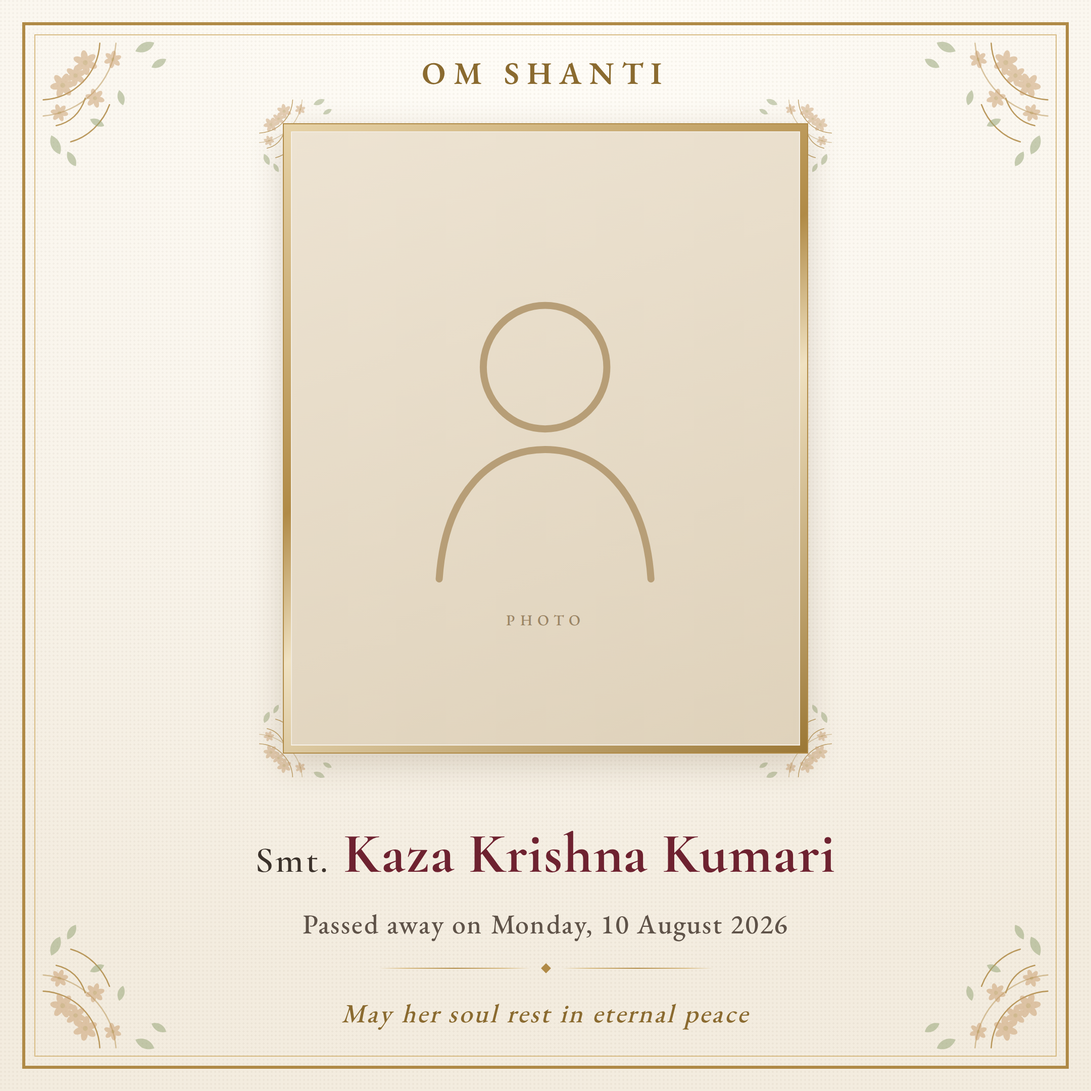
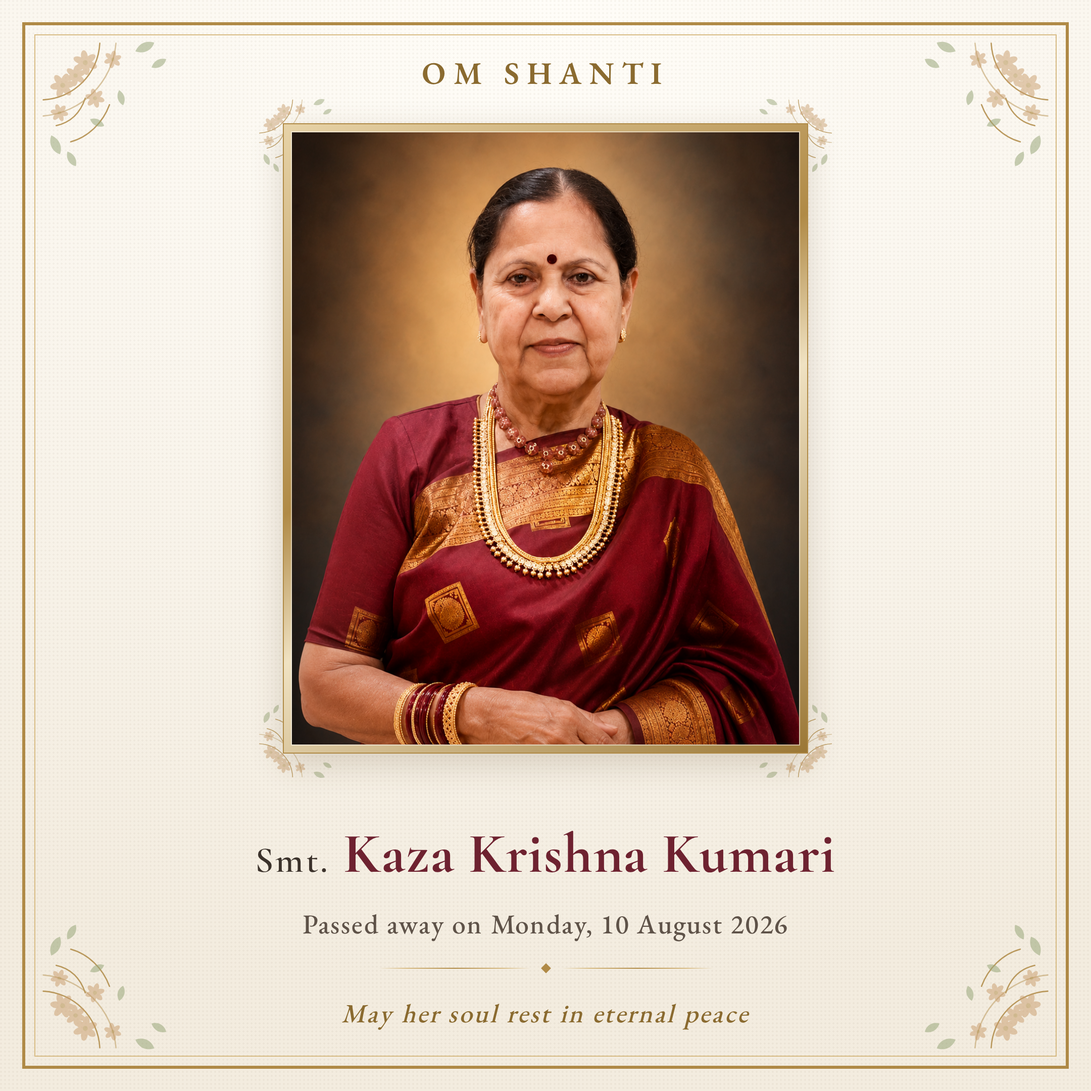
Render all four creatives with the photograph
Copies the portrait into the design folder from where it was uploaded at the
repository root, so the folder re-renders standalone.

The photograph is 1024x1536, exactly the 2:3 of the invitation slot, so it
seats there with no cropping. The square frame is 5:6 and crops the portrait
top and bottom; the face sits well inside the kept band and only the hands
lose a little at the base.

Claude-Session: https://claude.ai/code/session_01JVpFT1KiiQzTaMTwnEeLwV

Changed region(s): [[0.2481, 0.0931, 0.7444, 0.6824]]

diff --git a/designs/memorial-invitation-kaza-krishna-kumari/invitation-telugu.html b/designs/memorial-invitation-kaza-krishna-kumari/invitation-telugu.html
@@ -360,13 +360,7 @@ body{background:#fff}
            C 13.200000000000001 7.199999999999999, 4.800000000000001 6, 0 0 Z"/>
   </g>
 </svg>
-    <div class="photo-in"><div class="ph">
-         <svg viewBox="0 0 100 120" width="58%" fill="none" stroke="#B79E77" stroke-width="2.4" stroke-linecap="round">
-           <circle cx="50" cy="40" r="21"/>
-           <path d="M14 112 C 16 82, 32 68, 50 68 C 68 68, 84 82, 86 112"/>
-         </svg>
-         <span>PHOTO</span>
-       </div></div>
+    <div class="photo-in"><img src="Photo enh chtg.png" alt=""></div>
   </div>
       <div class="midcol">
         <div class="passed"><b>ది 10-08-2026 సోమవారం</b> నాడు స్వర్గస్థులైనారని తెలియజేయుటకు ఎంతో చింతిస్తున్నాము.<br><br>వారి ఉత్తరక్రియలు క్రింది విధముగా జరుపబడును.</div>

diff --git a/designs/memorial-invitation-kaza-krishna-kumari/photo-frame-telugu.html b/designs/memorial-invitation-kaza-krishna-kumari/photo-frame-telugu.html
@@ -379,13 +379,7 @@ body{background:#fff}
            C 13.200000000000001 7.199999999999999, 4.800000000000001 6, 0 0 Z"/>
   </g>
 </svg>
-    <div class="photo-in"><div class="ph">
-         <svg viewBox="0 0 100 120" width="58%" fill="none" stroke="#B79E77" stroke-width="2.4" stroke-linecap="round">
-           <circle cx="50" cy="40" r="21"/>
-           <path d="M14 112 C 16 82, 32 68, 50 68 C 68 68, 84 82, 86 112"/>
-         </svg>
-         <span>PHOTO</span>
-       </div></div>
+    <div class="photo-in"><img src="Photo enh chtg.png" alt=""></div>
   </div>
     <div class="nm"><small>శ్రీమతి</small> కాజా కృష్ణ కుమారి <small>గారు</small></div>
     <div class="dates">స్వర్గస్థులైన తేదీ — 10-08-2026 సోమవారం</div>

diff --git a/designs/memorial-invitation-kaza-krishna-kumari/invitation-english.html b/designs/memorial-invitation-kaza-krishna-kumari/invitation-english.html
@@ -360,13 +360,7 @@ body{background:#fff}
            C 13.200000000000001 7.199999999999999, 4.800000000000001 6, 0 0 Z"/>
   </g>
 </svg>
-    <div class="photo-in"><div class="ph">
-         <svg viewBox="0 0 100 120" width="58%" fill="none" stroke="#B79E77" stroke-width="2.4" stroke-linecap="round">
-           <circle cx="50" cy="40" r="21"/>
-           <path d="M14 112 C 16 82, 32 68, 50 68 C 68 68, 84 82, 86 112"/>
-         </svg>
-         <span>PHOTO</span>
-       </div></div>
+    <div class="photo-in"><img src="Photo enh chtg.png" alt=""></div>
   </div>
       <div class="midcol">
         <div class="passed">It is with profound sorrow that we inform you of her passing on <b>Monday, 10 August 2026</b>.<br><br>The ceremonies will be held as follows.</div>

diff --git a/designs/memorial-invitation-kaza-krishna-kumari/photo-frame-english.html b/designs/memorial-invitation-kaza-krishna-kumari/photo-frame-english.html
@@ -379,13 +379,7 @@ body{background:#fff}
            C 13.200000000000001 7.199999999999999, 4.800000000000001 6, 0 0 Z"/>
   </g>
 </svg>
-    <div class="photo-in"><div class="ph">
-         <svg viewBox="0 0 100 120" width="58%" fill="none" stroke="#B79E77" stroke-width="2.4" stroke-linecap="round">
-           <circle cx="50" cy="40" r="21"/>
-           <path d="M14 112 C 16 82, 32 68, 50 68 C 68 68, 84 82, 86 112"/>
-         </svg>
-         <span>PHOTO</span>
-       </div></div>
+    <div class="photo-in"><img src="Photo enh chtg.png" alt=""></div>
   </div>
     <div class="nm"><small>Smt.</small> Kaza Krishna Kumari </div>
     <div class="dates">Passed away on Monday, 10 August 2026</div>
